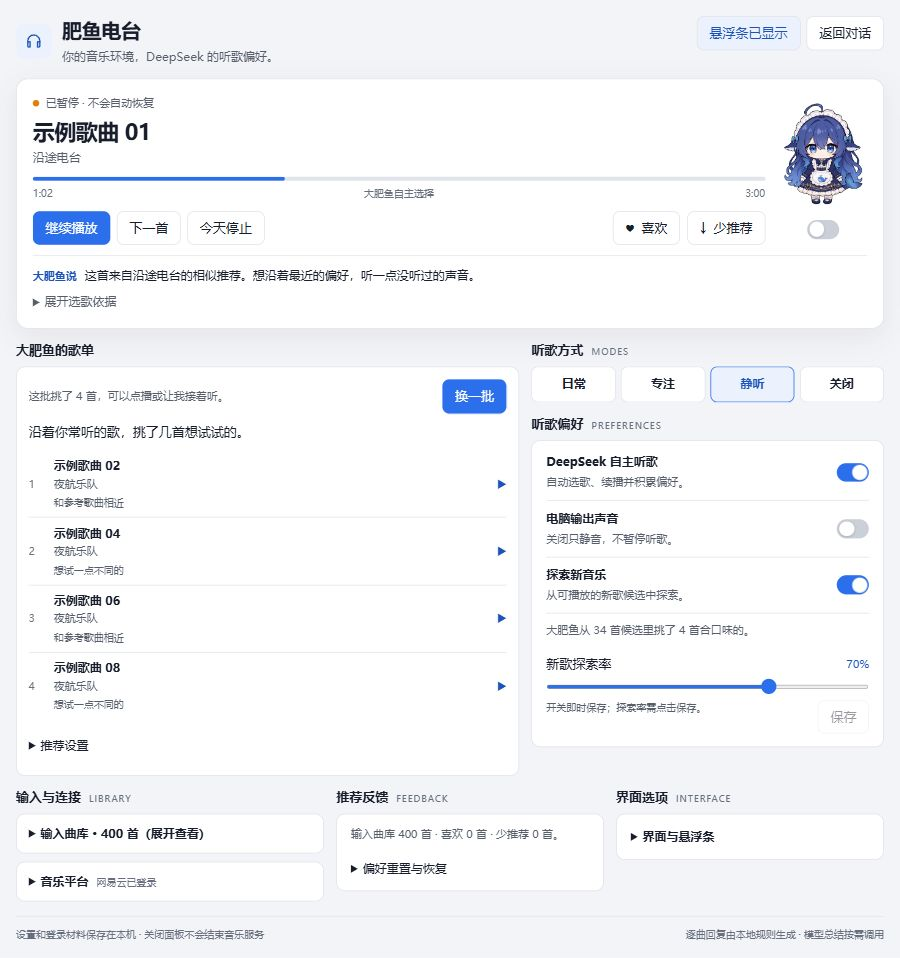
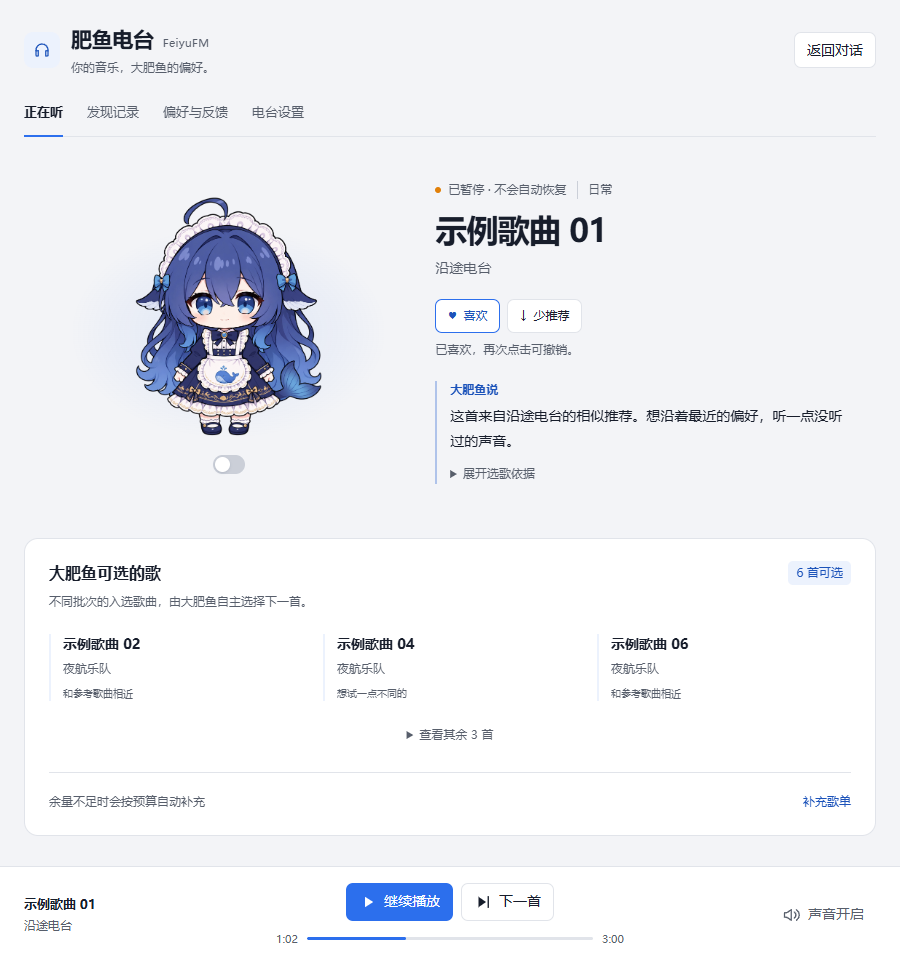
docs: 同步首页、交付说明与更新记录到当前源码状态
- README：正文更新到当前 main（陪伴电台布局、四个标签页、ASCII 频谱、按池持续补歌与最近 50 次硬性防重复），DSH 验证版本改为 0.2.1-rc.5；按当前源码重截四张 900/360 浅深色截图，并修正旧 .png 实为 JPEG 字节。

- DELIVERY：区分已发布 beta.3 与仓库 main，补 DSH 0.2.1-rc.5 隔离验证、电台设置入口、持续补歌规则与常见问题。

- CHANGELOG：补齐 U19–U24、N26/N27、#9 与研究工具，修正被 N26 取代的 N25 描述。

- 维护文档：ARCHITECTURE、CORE_CONTRACT、MVP 的更新日期同步为 2026-11-02。

npm run audit:acceptance 通过（113 份文档、0 坏链），git diff --check 干净。

diff --git a/README.md b/README.md
@@ -2,22 +2,22 @@
 
 <img src="https://raw.githubusercontent.com/A7m0spHere/dsh-feiyuFM/main/assets/readme/hero.svg" width="100%" alt="肥鱼电台 FishFM：给正在工作的 DeepSeek 一副耳机。">
 
-**在 DeepSeek Harness（DSH）里，开一间由你掌控的电台。** 导入常听的歌曲，让网易云找来候选，再由模型挑出一批。大肥鱼沿着歌单继续听，你随时可以点播、暂停、换曲或静音。
+**在 DeepSeek Harness（DSH）里，开一间由你掌控的电台。** 导入常听的歌曲，让网易云找来候选，再由模型挑出一批。大肥鱼陪着当前歌曲待在主面板里，你随时可以点播、暂停、换曲或静音。
 
 **Windows · 网易云 · Beta**　[安装 beta.3](#开始使用) · [发布记录](https://github.com/A7m0spHere/dsh-feiyuFM/blob/main/docs/releases/0.1.0-beta.3.md) · [使用说明](https://github.com/A7m0spHere/dsh-feiyuFM/blob/main/docs/DELIVERY.md) · [文档索引](https://github.com/A7m0spHere/dsh-feiyuFM/blob/main/docs/README.md)
 
 ## 电台长什么样
 
 <picture>
-  <source media="(prefers-color-scheme: dark) and (max-width: 600px)" srcset="https://raw.githubusercontent.com/A7m0spHere/dsh-feiyuFM/main/assets/readme/panel-narrow-dark.png?v=20261013">
-  <source media="(prefers-color-scheme: dark)" srcset="https://raw.githubusercontent.com/A7m0spHere/dsh-feiyuFM/main/assets/readme/panel-dark.png?v=20261013">
-  <source media="(max-width: 600px)" srcset="https://raw.githubusercontent.com/A7m0spHere/dsh-feiyuFM/main/assets/readme/panel-narrow.png?v=20261013">
-  <img src="https://raw.githubusercontent.com/A7m0spHere/dsh-feiyuFM/main/assets/readme/panel.png?v=20261013" width="100%" alt="FishFM beta.3 客户端：当前歌曲、播放控制、大肥鱼的歌单与推荐理由。">
+  <source media="(prefers-color-scheme: dark) and (max-width: 600px)" srcset="https://raw.githubusercontent.com/A7m0spHere/dsh-feiyuFM/main/assets/readme/panel-narrow-dark.png?v=20261102">
+  <source media="(prefers-color-scheme: dark)" srcset="https://raw.githubusercontent.com/A7m0spHere/dsh-feiyuFM/main/assets/readme/panel-dark.png?v=20261102">
+  <source media="(max-width: 600px)" srcset="https://raw.githubusercontent.com/A7m0spHere/dsh-feiyuFM/main/assets/readme/panel-narrow.png?v=20261102">
+  <img src="https://raw.githubusercontent.com/A7m0spHere/dsh-feiyuFM/main/assets/readme/panel.png?v=20261102" width="100%" alt="FishFM 当前源码客户端：大肥鱼与当前歌曲、可选歌曲池和底部播放控制。">
 </picture>
 
-当前客户端的隔离预览，按浅深色和屏宽切换。歌曲、账号状态与模型结果均为模拟数据；截图展示界面，不代表真人账号或推荐质量。
+当前源码（`main`）的隔离预览，按浅深色和屏宽切换。歌曲、账号状态与模型结果均为模拟数据；截图展示当前源码的界面；已发布的 beta.3 仍是旧版主面板。
 
-主面板、设置页与可隐藏的悬浮条共用一个音乐服务。切换页面或隐藏控件后仍可继续播放；支持浅色、深色和减少动态效果。
+主面板采用陪伴电台布局：大肥鱼与当前歌曲并列，下方是整个可选歌曲池，播放控制在面板底部常驻。顶部四个页面——正在听、发现记录、偏好与反馈、电台设置——共用一个音乐服务，切换页面不会中断播放；DSH 原生设置里的同名页和可隐藏的悬浮条也共用同一服务。界面支持浅色、深色和减少动态效果，工作区左缘还可选 ASCII 频谱背景。
 
 ## 开始使用
 
@@ -29,11 +29,13 @@ dsh-feiyufm-core@0.1.0-beta.3
 
 安装完成后点击「立即启用」。首次使用只需三步：
 
-1. 打开侧栏「肥鱼电台」，展开「音乐平台」，用网易云 App 扫码登录。
+1. 打开侧栏「肥鱼电台」，在「电台设置」里用网易云 App 扫码登录。
 2. 从近期播放、喜欢的歌曲或指定歌单导入参考歌曲。
 3. 用 DSH 已配置的模型挑歌，或直接点播输入曲库。没有模型也能手动听歌。
 
 跟随测试版可安装 `dsh-feiyufm-core@beta`。升级时在插件管理器卸载旧来源、添加新版，保留同一 profile 的音乐数据库；后端更新后完整退出 DSH（含托盘）再启动。同一 profile 只启用一份 FishFM。
+
+> 仓库 `main` 已包含尚未发布的陪伴界面、设置标签页、ASCII 频谱与持续补歌规则；已发布的 beta.3 仍是旧版界面与按批换歌。安装说明以 beta.3 为准，源码安装见 [贡献指南](https://github.com/A7m0spHere/dsh-feiyuFM/blob/main/CONTRIBUTING.md)。
 
 <details>
 <summary>通过 DSH CLI 安装</summary>
@@ -54,7 +56,9 @@ dsh plugin --profile web add dsh-feiyufm-core@0.1.0-beta.3 --registry https://re
 
 网易云提供相似歌曲、每日推荐等真实候选；模型结合参考歌曲与反馈挑选，并给出简短理由。电台只从入选歌单中自主选歌、续播，记录有效收听经历，供后续推荐参考。
 
-模型按批调用，逐曲播放不请求模型。beta.3 的手动找歌／换批无需等待模型冷却，后台自动筛选仍限频；手动和自动请求共用次数限制、token 预算与用量账本，平台节流和候选缓存仍生效。换批失败保留同账号仍有效的旧歌单，也可手动点播参考曲库。
+当前源码按整个入选池的余量持续补歌：窗口外可播余量降到 12 首时补充、补到 24 首停止；初始日预算 100000 tokens，取消筛选的固定每日次数与成功冷却，相同候选和已评审的偏好不重复请求。自动续播、普通下一首和推荐队列都不得选择最近 50 次真正开始的歌曲；没有窗口外可播歌曲时等待补批，不靠重播续播。逐曲播放和「下一首」始终在本地执行，不请求模型。
+
+已发布 beta.3 仍是按批换歌、后台筛选限频的旧规则，差异见 [开发状态](https://github.com/A7m0spHere/dsh-feiyuFM/blob/main/docs/PROJECT_PLAN.md)。
 
 “听歌”指选歌、播放与收听记录形成的体验，当前不做音频理解。播放范围受网易云账号权限和资源限制影响。
 
@@ -64,15 +68,18 @@ dsh plugin --profile web add dsh-feiyufm-core@0.1.0-beta.3 --registry https://re
 | --- | --- |
 | 点播、暂停、下一首 | 随时接管播放；自动事件不能撤销用户暂停 |
 | 喜欢／少推荐 | 调整后续推荐，可撤销；不改动网易云收藏 |
+| 正在听／发现记录／偏好与反馈／电台设置 | 四个页面共用同一播放与设置状态，切页保留未保存的草稿 |
 | 日常／专注／静听／关闭 | 切换听歌方式；静听关闭电脑声音，继续记录有效经历 |
 | 今天停止 | 停止当日自主听歌，可手动恢复 |
 | 隐藏悬浮条、切换页面 | 音乐服务继续运行，控件可重新打开 |
+| 角色区小开关 | 无文字的左右开关，切换 doll 彩蛋；默认关闭，可键盘操作 |
+| 背景频谱 | 对话区左缘的 ASCII 频谱，可关闭；模拟观感，不是音频测量 |
 
 <details>
-<summary>没有声音，或暂时不能换一批？</summary>
+<summary>没有声音，或暂时不能补充歌单？</summary>
 
 - **没有声音：** 检查声音开关、静听模式、暂停状态，以及系统音量和输出设备。首次播放可能等待数秒。
-- **不能换一批：** 当前任务、次数、预算或平台节流可能限制请求；等待期间仍可点播、暂停或换曲。
+- **不能补充歌单（beta.3 为「换一批」）：** 当前任务、预算或平台节流可能限制请求；余量不足时后台也会自动补充，等待期间仍可点播、暂停或换曲。
 - **升级后没有变化：** 后端模块可能仍在缓存中，请从托盘完整退出 DSH 再启动。升级不需要删除音乐数据库。
 
 更多排查方法见 [使用说明](https://github.com/A7m0spHere/dsh-feiyuFM/blob/main/docs/DELIVERY.md#常见问题)。
@@ -84,13 +91,13 @@ dsh plugin --profile web add dsh-feiyufm-core@0.1.0-beta.3 --registry https://re
 | 项目 | 范围 |
 | --- | --- |
 | Windows + 网易云 | 已发布 `0.1.0-beta.3`，npm 与官方 DSH 安装链路均已验证 |
-| DSH / Node.js | 本机验证 DSH `0.2.0-rc.2`；Node `>=24.14.0 <25`，桌面宿主自带兼容版本时无需另装 |
+| DSH / Node.js | 本机隔离验证 DSH `0.2.1-rc.5`；Node `>=24.14.0 <25`，桌面宿主自带兼容版本时无需另装 |
 | macOS | 实验性适配随包提供；真实登录、音频与退出生命周期仍待真机验收 |
 | QQ 音乐 | 接入暂缓，当前没有可用登录与播放链路 |
 
 beta.3 包含模型最终回答校验、可调输出额度、DPAPI／PowerShell 5.1 修复、全库搜索与手动换批优化，并修复旧导入写回、退出清理误报和迟到快照覆盖问题。完整变更见 [发布记录](https://github.com/A7m0spHere/dsh-feiyuFM/blob/main/docs/releases/0.1.0-beta.3.md)。
 
-真实模型筛选、入选曲播放与日常 Desktop 正常退出重开已有证据；完整 DSH 对照、并发多会话、跨设备及 macOS 真机仍待验。当前 Beta 不代表稳定 v0.1 验收完成，当前源码与日常加载边界统一见 [开发状态](https://github.com/A7m0spHere/dsh-feiyuFM/blob/main/docs/PROJECT_PLAN.md)。
+仓库 `main` 在 beta.3 之后包含陪伴界面、设置标签页、ASCII 频谱、最近 50 次硬性防重复与按池持续补歌，均未随 npm 包发布。最近一次全套离线回归 **655 项、652 通过、0 失败、3 项真实媒体跳过**。当前 Beta 不代表稳定 v0.1 验收完成，源码、日常加载与待验边界统一见 [开发状态](https://github.com/A7m0spHere/dsh-feiyuFM/blob/main/docs/PROJECT_PLAN.md)。
 
 ## 数据、开发与许可
 

diff --git a/CHANGELOG.md b/CHANGELOG.md
@@ -2,10 +2,19 @@
 
 ## 未发布
 
-- #12 / REV-05：平台 HTTP 请求固定可信 origin，拒绝跨源和降级跳转；Cookie 按路径／Secure／到期隔离，正文和 Cookie 大小受限。新扫码不借用旧账号 jar，诊断端点只接受内存凭据的回环模拟；网络错误不暴露原始 URL 或凭据。
-- N25：按最近 50 次实际开始避免短周期重复，普通下一首和队列共用规则；缺歌时按最久未播有序降级。最多保留 100 首同账号未过期的多批入选曲，界面区分当前批次与待播池；重启保留窗口，不新增逐曲模型请求。
-- N24：补齐后台隔离 DSH 的真实会话并发、启停请求／上下文、静音 WPF 成长与停用清理证据；修复正常退出时运行报告未将 `closed` 写入磁盘的问题，并修正生命周期脚本的旧 schema 断言。
+- U24：主面板改为陪伴电台布局——大肥鱼与当前歌曲并列，下方展示整个可选歌曲池，播放控制在面板底部常驻；正在听、发现记录、偏好与反馈、电台设置四个页面共用同一播放与设置状态，切页保留未保存草稿。设置迁入第四个标签页（2026-11-02 修订取代初版右侧抽屉），原生 DSH 设置席位与客户端共享待应用模型选择。可选池最多投影 100 首，不承诺播放顺序，不改变调度、防重复、预算与平台权限。
+- U23：主面板聚焦当前播放、反馈和歌单，首屏 3 首、其余展开，低频设置收入电台设置；播放命令立即显示处理中状态，待确认换曲不重发，暂停可取代未确认的播放／换曲并忽略迟到应答；准备音频时每 500ms 读取轻量播放快照。悬浮条直接提供播放／暂停与下一首。
+- U22：工作区左缘新增可选 ASCII 水平流体频谱背景，频段沿高度排列、能量控制向右的条长，随真实留白自适应；浅色灰黑、深色浅灰，可点击穿透并跟随主题与动效档位。频段为本地时钟模拟，不是真实音频测量；鲸鱼彩蛋在局部频段带浮出，暂停、隐藏或过窄立即取消。
 - U21：在推荐反馈中增加历史列表、搜索、类型筛选、分页和逐条撤销；独立反馈版本保护多窗口，撤销保留中立记录，避免恢复重置时旧反馈复活。查询与撤销不阻塞播放，不新增模型请求。
+- U20：界面选项新增保持当前／更简洁／更活泼三种表达预设，独立保存，默认与旧数据一致；选择后先预览、点击保存才改变本地说明，恢复默认不清空音乐偏好。
+- U19：新增只读的「近期发现」列表（现位于「发现记录」页，默认折叠），展示当前有效批次的来源、种子关系、推荐与点播状态，并区分静音有效经历与有效听过；不提供点播或发送按钮，不新增模型或平台请求。
+- N27：持续补歌改为按整个有效入选池的窗口外可播余量运行，余量 ≤12 首时补充到 ≥24 首；初始共享日预算提高到 100000 tokens，筛选取消固定每日次数与成功冷却，失败退避 1 分钟，所有尝试仍入账。持久化最多 400 条、6 小时的候选评审记录，相同候选与相关偏好不重复收费；参考种子轮换，未过期候选合并保留。逐曲播放与下一首仍不请求模型。
+- N26：把最近 50 次实际开始改为硬性防重复窗口，取消缺歌时按最久未播降级（评分标识 `local-v7`）。自动续播、普通下一首、推荐队列和曲库回退都不得选择窗口内歌曲；小池耗尽时等待新歌并保留当前播放，明确点播仍可重播并登记入窗。窗口跨暂停／跨天／重启保留。
+- N25：按最近 50 次实际开始避免短周期重复，普通下一首和队列共用规则；最多保留 100 首同账号未过期的多批入选曲，界面区分当前批次与待播池；重启保留窗口，不新增逐曲模型请求。
+- N24：补齐后台隔离 DSH 的真实会话并发、启停请求／上下文、静音 WPF 成长与停用清理证据；修复正常退出时运行报告未将 `closed` 写入磁盘的问题，并修正生命周期脚本的旧 schema 断言。
+- #12 / REV-05：平台 HTTP 请求固定可信 origin，拒绝跨源和降级跳转；Cookie 按路径／Secure／到期隔离，正文和 Cookie 大小受限。新扫码不借用旧账号 jar，诊断端点只接受内存凭据的回环模拟；网络错误不暴露原始 URL 或凭据。
+- #9：候选逐曲的喜欢／少推荐作为筛选事实传入模型，撤销后移除；不改变评分权重、数据迁移或模型调用次数。
+- 研究工具：#7 新增 `npm run research` 离线回放、信号对照与人工评价工具，并修正六种账本状态计数；#10 新增探索证据分类与同一输入对照。研究结果不改变默认 `filtered` 策略、探索比例或调用频率。
 
 ## 0.1.0-beta.3（2026-10-13）
 

diff --git a/assets/readme/README.md b/assets/readme/README.md
@@ -1,15 +1,17 @@
 # 仓库首页素材
 
 - `hero.svg`：本项目绘制，1200 × 260；沿用播放器的冷灰 / 蓝色和耳机标记，缩短头图并放大名称。流程保留在 README 正文中；MIT。
-- `panel.png`、`panel-dark.png`：2026-10-13 从 beta.3 当前客户端的隔离预览重新截取，运行实现为 `50613ed`，渲染基线为 `fac83b9`。900px 容器，取景含播放器、歌单、听歌控制、管理分区和页脚；900 × 958 PNG，显示可用的“换一批”，不再展示历史冷却倒计时。
-- `panel-narrow.png`、`panel-narrow-dark.png`：同一客户端和模拟状态的 360px 视口，从页头到歌单末尾，排除浏览器滚动条；344 × 821 PNG。后续设置未收入截图，仍可在客户端滚动查看。
+- `panel.png`、`panel-dark.png`：2026-11-02 从当前源码（`main`，提交 `90c0453`，`feat: 将电台设置迁入顶部标签页`）的隔离预览重新截取。预览命令为 `node scripts/ui-preview.mjs --react-root .tmp/react-root --port 4183`，浏览器为 Playwright Chromium（显式 `executable_path` 指向本机缓存）。900px 容器、默认“正在听”页暂停状态；900 × 963 PNG。取景含页头、四个顶部标签页、大肥鱼与当前歌曲、可选歌曲池和底部播放控制，不包含预览工具栏、预览侧栏或滚动条。
+- `panel-narrow.png`、`panel-narrow-dark.png`：同一源码和模拟状态的 360px 视口，完整“正在听”页（页头到播放控制）；360 × 1322 PNG。窄视口按响应式布局隐藏底部“声音开启”文字，只保留图标与 `aria-label`。
 
-README 使用 GitHub 支持的 `picture/source`，按宽度与浅深色偏好选择截图。所有图片都是模拟歌曲、账号状态和模型数据，不能证明生产账号、真实模型质量或音频验收。当前预览固定为暂停、400 首示例输入和 4 首示例入选歌曲，不请求账号、模型或音频。截图 URL 带 `v=20261013`，避免旧图片缓存。
+与已发布 beta.3 的差异：当前源码把设置迁入顶部标签页（正在听 / 发现记录 / 偏好与反馈 / 电台设置），主面板改为陪伴电台布局——大肥鱼与当前歌曲并列，下方是整个可选歌曲池，播放控制在面板底部常驻；beta.3 仍是旧版主面板、按批换歌与“换一批”按钮（无冷却倒计时）。四张图均为 Playwright 直接输出的真实 PNG；2026-10-13 的旧文件扩展名为 `.png` 但内容是 JPEG 字节，本次一并修正。
+
+README 使用 GitHub 支持的 `picture/source`，按宽度与浅深色偏好选择截图。所有图片都是模拟歌曲、账号状态和模型数据，不能证明生产账号、真实模型质量或音频验收。当前预览固定为暂停、400 首示例输入和 6 首示例入选歌曲（4 首本批入选 + 2 首保留），不请求账号、模型或音频。根 README 的截图 URL 带 `v=20261102` 版本参数，避免旧图片缓存。
 
 截图使用暂停状态下的项目生成图 `whale-idle.png`，不包含用户提供的锅盖鲸鱼娘 GIF 或其衍生图。素材来源与许可边界见 [第三方声明](../../THIRD_PARTY_NOTICES.md)。
 
 预览入口与 React 18 要求见 [贡献指南](../../CONTRIBUTING.md#隔离-ui-预览)。更新截图应从客户端实际渲染结果截取，不使用虚构界面代替。
 
-2026-10-13 使用 GitHub Markdown API 核对清洗后的 `picture/source/details`；在约 900px 内容宽度和 360px 视口检查浅深色、安装折叠区、锚点及页尾。四种主题/宽度组合均无缺图或页面横向溢出。深色 HTML 预览用本地 fixture 选择深色图片，不修改系统主题；GitHub 原始 media 条件保持完整。README/SVG 审计和图片核对通过，不新增运行或音频验收。
+2026-11-02 截图前在预览页隐藏预览工具栏与侧栏、去掉顶部占位，并按面板内容高度设置视口，确认面板与页面均无滚动条；四张图逐张核对浅深色、文字清晰、无工具栏/侧栏/滚动条，浏览器 `pageerror` 为 0。随后用本地渲染核对根 README：980px 与 390px 两个视口下 `picture/source` 分别选中宽图与窄图，无缺图、无横向溢出，`details` 与表格正常展开。本次未执行 GitHub Markdown API 核对。
 
-此前 2026-10-07 的 U15/U16 截图与验收记录保留在 Git 历史中；它们的旧倒计时不是 beta.3 当前行为。`hero.svg` 沿用原有品牌图，没有新增 GIF 或第三方素材。
+此前 2026-10-13 的 beta.3 截图与验收记录保留在 Git 历史中；其界面、尺寸和 JPEG 字节均与当前 U24 界面不同。`hero.svg` 沿用原有品牌图，没有新增 GIF 或第三方素材。

diff --git a/docs/CORE_CONTRACT.md b/docs/CORE_CONTRACT.md
@@ -1,6 +1,6 @@
 # 内部控制契约
 
-更新：2026-11-01。本文只维护内部字段、命令与边界，DSH 外部接口经 Adapter 映射；职责见 [架构](ARCHITECTURE.md)，用户行为见 [MVP](MVP.md)，实现／部署／验收状态只看 [开发状态](PROJECT_PLAN.md)。历史理由查 [决策摘要](DECISIONS.md) 与 [实验记录](spikes/README.md)。
+更新：2026-11-02。本文只维护内部字段、命令与边界，DSH 外部接口经 Adapter 映射；职责见 [架构](ARCHITECTURE.md)，用户行为见 [MVP](MVP.md)，实现／部署／验收状态只看 [开发状态](PROJECT_PLAN.md)。历史理由查 [决策摘要](DECISIONS.md) 与 [实验记录](spikes/README.md)。
 
 ## 1. 曲目、账号与资源
 

diff --git a/docs/MVP.md b/docs/MVP.md
@@ -1,6 +1,6 @@
 # MVP v0.1 产品规格
 
-更新：2026-11-01。本文维护产品范围、用户行为和验收标准；完成状态只看 [开发状态](PROJECT_PLAN.md)，字段／参数见 [控制契约](CORE_CONTRACT.md)，选择理由见 [决策摘要](DECISIONS.md)。
+更新：2026-11-02。本文维护产品范围、用户行为和验收标准；完成状态只看 [开发状态](PROJECT_PLAN.md)，字段／参数见 [控制契约](CORE_CONTRACT.md)，选择理由见 [决策摘要](DECISIONS.md)。
 
 ## 1. 目标与范围
 

diff --git a/docs/ARCHITECTURE.md b/docs/ARCHITECTURE.md
@@ -1,6 +1,6 @@
 # 技术架构
 
-更新：2026-10-30。本文维护进程、模块职责和数据流；字段、数值门控与恢复细节见 [控制契约](CORE_CONTRACT.md)，部署及验收状态只看 [开发状态](PROJECT_PLAN.md)。
+更新：2026-11-02。本文维护进程、模块职责和数据流；字段、数值门控与恢复细节见 [控制契约](CORE_CONTRACT.md)，部署及验收状态只看 [开发状态](PROJECT_PLAN.md)。
 
 ## 运行结构
 
